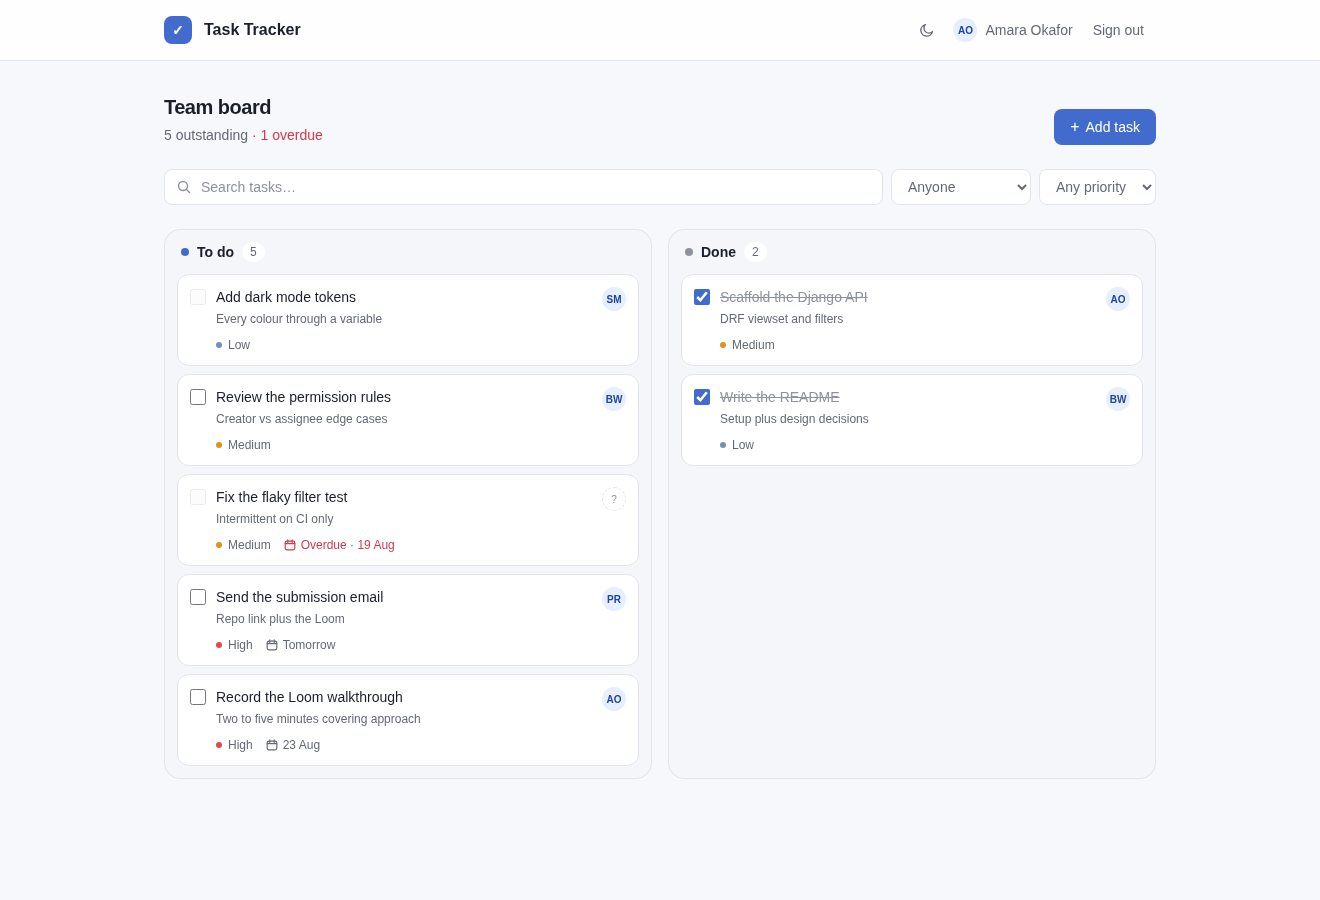
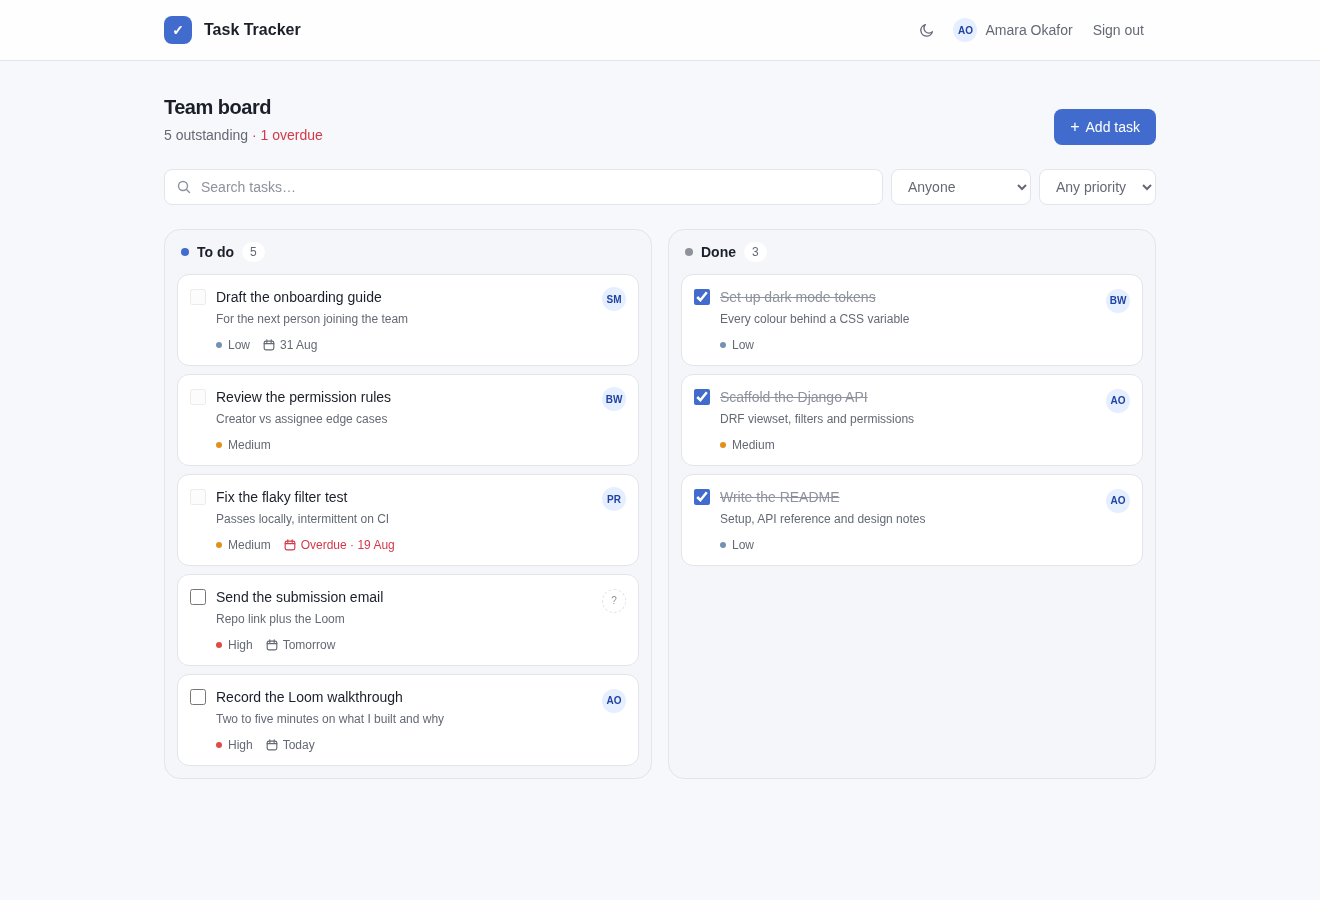
Use one overdue rule for the card and the header
The header compared the due date against the current time, so work due
today counted as overdue from midnight while the card said 'Today'.

diff --git a/frontend/src/lib/dates.test.ts b/frontend/src/lib/dates.test.ts
@@ -1,0 +1,36 @@
+import { describe, expect, it } from "vitest";
+
+import { daysUntil, isOverdue } from "./dates";
+
+// Mid-afternoon, so a naive `dueDate < new Date()` would wrongly call today late.
+const NOW = new Date("2026-08-22T15:30:00");
+
+describe("daysUntil", () => {
+  it("counts today as zero regardless of the time of day", () => {
+    expect(daysUntil("2026-08-22", NOW)).toBe(0);
+    expect(daysUntil("2026-08-22", new Date("2026-08-22T23:59:00"))).toBe(0);
+  });
+
+  it("counts forwards and backwards", () => {
+    expect(daysUntil("2026-08-23", NOW)).toBe(1);
+    expect(daysUntil("2026-08-21", NOW)).toBe(-1);
+  });
+});
+
+describe("isOverdue", () => {
+  it("does not call work due today late — you still have the day", () => {
+    expect(isOverdue("2026-08-22", false, NOW)).toBe(false);
+  });
+
+  it("calls yesterday late", () => {
+    expect(isOverdue("2026-08-21", false, NOW)).toBe(true);
+  });
+
+  it("never calls finished work late", () => {
+    expect(isOverdue("2026-08-01", true, NOW)).toBe(false);
+  });
+
+  it("treats a missing due date as not late", () => {
+    expect(isOverdue(null, false, NOW)).toBe(false);
+  });
+});

diff --git a/frontend/src/components/DueDate.tsx b/frontend/src/components/DueDate.tsx
@@ -1,12 +1,12 @@
+import { daysUntil, isOverdue } from "../lib/dates";
+
 /** Renders a due date, flagging anything overdue that is not yet finished. */
 export function DueDate({ date, isComplete }: { date: string | null; isComplete: boolean }) {
   if (!date) return null;
 
+  const days = daysUntil(date);
+  const overdue = isOverdue(date, isComplete);
   const due = new Date(`${date}T00:00:00`);
-  const today = new Date();
-  today.setHours(0, 0, 0, 0);
-  const days = Math.round((due.getTime() - today.getTime()) / 86_400_000);
-  const overdue = !isComplete && days < 0;
 
   const label =
     days === 0
@@ -16,7 +16,7 @@ export function DueDate({ date, isComplete }: { date: string | null; isComplete:
         : due.toLocaleDateString("en-GB", {
             day: "numeric",
             month: "short",
-            year: due.getFullYear() === today.getFullYear() ? undefined : "numeric",
+            year: due.getFullYear() === new Date().getFullYear() ? undefined : "numeric",
           });
 
   return (

diff --git a/frontend/src/pages/TasksPage.tsx b/frontend/src/pages/TasksPage.tsx
@@ -18,6 +18,7 @@ import { Modal } from "../components/Modal";
 import { TaskForm } from "../components/TaskForm";
 import { ThemeToggle } from "../components/ThemeToggle";
 import { useDebounced } from "../hooks/useDebounced";
+import { isOverdue } from "../lib/dates";
 
 /** Which task the form is editing, or "new" when adding. */
 type Editing = Task | "new" | null;
@@ -50,9 +51,7 @@ export function TasksPage() {
 
   const todoTasks = todo.data?.results ?? [];
   const doneTasks = done.data?.results ?? [];
-  const overdue = todoTasks.filter(
-    (task) => task.due_date && new Date(`${task.due_date}T00:00:00`) < new Date(),
-  ).length;
+  const overdue = todoTasks.filter((task) => isOverdue(task.due_date, task.is_complete)).length;
 
   function handleSubmit(input: TaskInput) {
     return editing === "new"

diff --git a/frontend/src/pages/TasksPage.test.tsx b/frontend/src/pages/TasksPage.test.tsx
@@ -40,6 +40,17 @@ describe("TasksPage board", () => {
     expect(await screen.findByText(/1 overdue/)).toBeInTheDocument();
   });
 
+  it("does not count work due today as overdue", async () => {
+    const today = new Date().toISOString().slice(0, 10);
+    show(makeTask({ id: 1, title: "Due today", due_date: today }));
+    renderWithProviders(<TasksPage />);
+
+    expect(await screen.findByText(/1 outstanding/)).toBeInTheDocument();
+    expect(screen.queryByText(/overdue/)).not.toBeInTheDocument();
+    // The card agrees with the header.
+    expect(screen.getByText("Today")).toBeInTheDocument();
+  });
+
   it("shows an empty state per column rather than a blank panel", async () => {
     show();
     renderWithProviders(<TasksPage />);

diff --git a/frontend/src/lib/dates.ts b/frontend/src/lib/dates.ts
@@ -1,0 +1,20 @@
+/** Whole days from today to `date`; negative once the date has passed. */
+export function daysUntil(date: string, now: Date = new Date()): number {
+  const due = new Date(`${date}T00:00:00`);
+  const today = new Date(now);
+  today.setHours(0, 0, 0, 0);
+  return Math.round((due.getTime() - today.getTime()) / 86_400_000);
+}
+
+/**
+ * Work due today is not late yet — you still have the day. Comparing a due
+ * date against the current *time* would call it overdue from 00:01.
+ */
+export function isOverdue(
+  date: string | null,
+  isComplete: boolean,
+  now: Date = new Date(),
+): boolean {
+  if (!date || isComplete) return false;
+  return daysUntil(date, now) < 0;
+}
